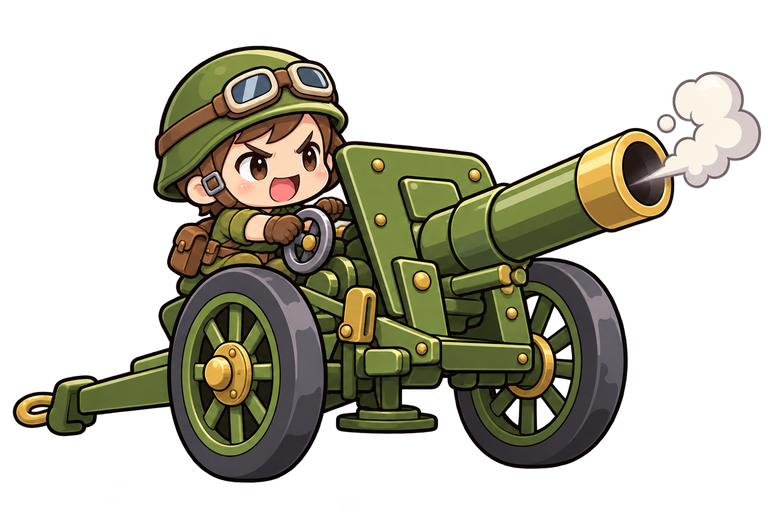
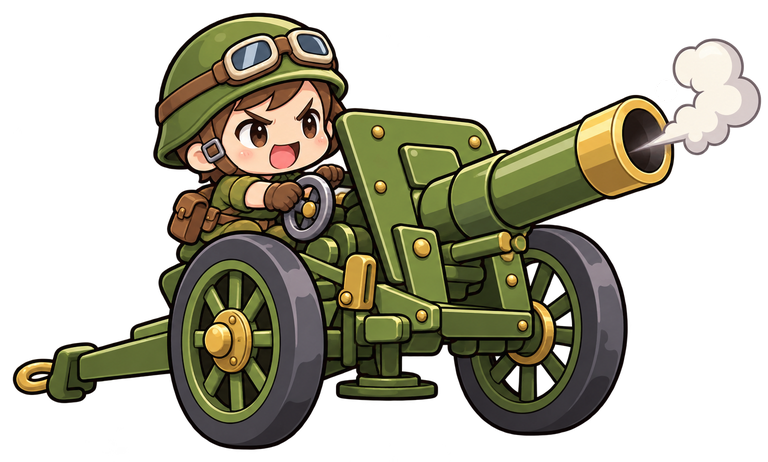
戰鬥畫面每個角色一樣高
- 兵種與自組兵種圖示裁掉多餘的透明邊，並清掉圖示邊緣殘留的色帶與碎片
- 戰場上所有角色用同一個高度顯示（寬度依圖片比例），表情符號也對齊同樣高度

Changed region(s): [[0.0, 0.0303, 1.0, 1.0]]

diff --git a/style.css b/style.css
@@ -437,6 +437,7 @@ button:focus-visible { outline: 2px solid var(--accent); outline-offset: 3px; }
 .battleScreen {
   /* 戰鬥畫面配色：沿用遊戲的深藍面板與金色重點，戰場用柔和沙地色讓角色清楚 */
   --bs-band: #0f1b33; --bs-edge: #2a3f66;
+  --uh: clamp(18px, 3.4vw, 34px); /* 每個角色一樣高 */
   --bs-ground: #cdb88a; --bs-ground-edge: #a8925f; --bs-pebble: rgba(92, 70, 35, .35); --bs-ink: #4a3a1c;
   position: fixed; inset: 0; z-index: 9; background: rgba(5, 10, 20, .82);
   display: flex; align-items: center; justify-content: center; padding: 16px;
@@ -491,11 +492,11 @@ button:focus-visible { outline: 2px solid var(--accent); outline-offset: 3px; }
 .bsColHead { font-size: 11px; font-weight: 700; color: var(--bs-ink); white-space: nowrap; display: flex; flex-direction: column; align-items: center; gap: 2px; min-height: 30px; }
 .bsColUnits { display: flex; flex-direction: column; align-items: center; gap: 2px; flex: 1; justify-content: center; }
 .bsUnit {
-  position: relative; flex: none; width: clamp(16px, 3.2vw, 32px); height: clamp(16px, 3.2vw, 32px);
-  display: grid; place-items: center; font-size: clamp(12px, 2.6vw, 24px);
+  position: relative; flex: none; height: var(--uh); min-width: var(--uh);
+  display: grid; place-items: center; font-size: calc(var(--uh) * .82); line-height: 1;
 }
 .bsUnit::after { content: ''; position: absolute; bottom: -2px; left: 15%; right: 15%; height: 4px; border-radius: 50%; background: rgba(0, 0, 0, .28); z-index: -1; }
-.bsSprite { width: 100%; height: 100%; object-fit: contain; }
+.bsSprite { display: block; height: var(--uh); width: auto; max-width: calc(var(--uh) * 1.9); object-fit: contain; }
 .bsCount { flex: none; font-size: 11px; line-height: 1.2; text-align: center; font-weight: 700; color: #fff; background: rgba(19, 33, 59, .78); border-radius: 6px; padding: 1px 5px; white-space: nowrap; }
 .bsDmg {
   position: absolute; top: 26px; left: 50%; margin-left: -1em; font-style: normal; font-weight: 900; font-size: clamp(16px, 3vw, 24px);
@@ -505,7 +506,7 @@ button:focus-visible { outline: 2px solid var(--accent); outline-offset: 3px; }
 .clash .right .bsUnit { animation: bs-lunge-l .5s ease-in-out var(--d) both; }
 .clash .bsUnit.hit .bsFace { animation: bs-hit .45s steps(2) calc(var(--d) + .25s) 2; }
 /* 面對面：右方（或面向左的圖在左方）水平翻轉 */
-.bsFace { display: grid; place-items: center; width: 100%; height: 100%; }
+.bsFace { display: grid; place-items: center; height: 100%; }
 .bsCols.right .bsFace:not(.faceL), .bsCols.left .bsFace.faceL { transform: scaleX(-1); }
 .clash .left .bsUnit.dying { animation: bs-lunge-r .5s ease-in-out var(--d), bs-die .5s ease-in calc(var(--d) + .55s) forwards; }
 .clash .right .bsUnit.dying { animation: bs-lunge-l .5s ease-in-out var(--d), bs-die .5s ease-in calc(var(--d) + .55s) forwards; }

diff --git a/index.html b/index.html
@@ -6,7 +6,7 @@
   <title>台灣縣市大戰</title>
   <link rel="preconnect" href="https://fonts.googleapis.com">
   <link href="https://fonts.googleapis.com/css2?family=Noto+Sans+TC:wght@400;700;900&display=swap" rel="stylesheet">
-  <link rel="stylesheet" href="style.css?v=20261022l">
+  <link rel="stylesheet" href="style.css?v=20261022m">
 </head>
 <body>
   <header id="top">
@@ -195,12 +195,12 @@
   </div>
 
   <script src="https://cdn.jsdelivr.net/npm/d3-delaunay@6.0.4/dist/d3-delaunay.min.js"></script>
-  <script src="js/data.js?v=20261022l"></script>
-  <script src="js/map.js?v=20261022l"></script>
-  <script src="js/combat.js?v=20261022l"></script>
-  <script src="js/invasion.js?v=20261022l"></script>
-  <script src="js/saves.js?v=20261022l"></script>
-  <script src="js/game.js?v=20261022l"></script>
+  <script src="js/data.js?v=20261022m"></script>
+  <script src="js/map.js?v=20261022m"></script>
+  <script src="js/combat.js?v=20261022m"></script>
+  <script src="js/invasion.js?v=20261022m"></script>
+  <script src="js/saves.js?v=20261022m"></script>
+  <script src="js/game.js?v=20261022m"></script>
 </body>
 </html>
 
